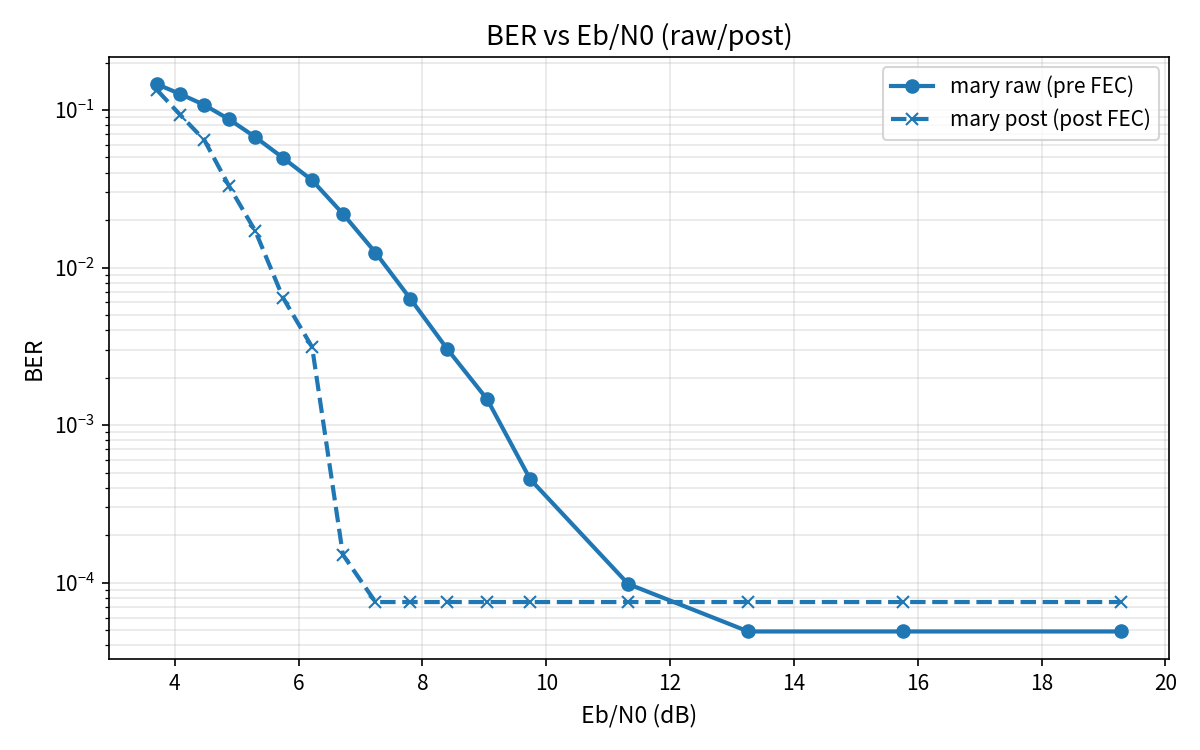
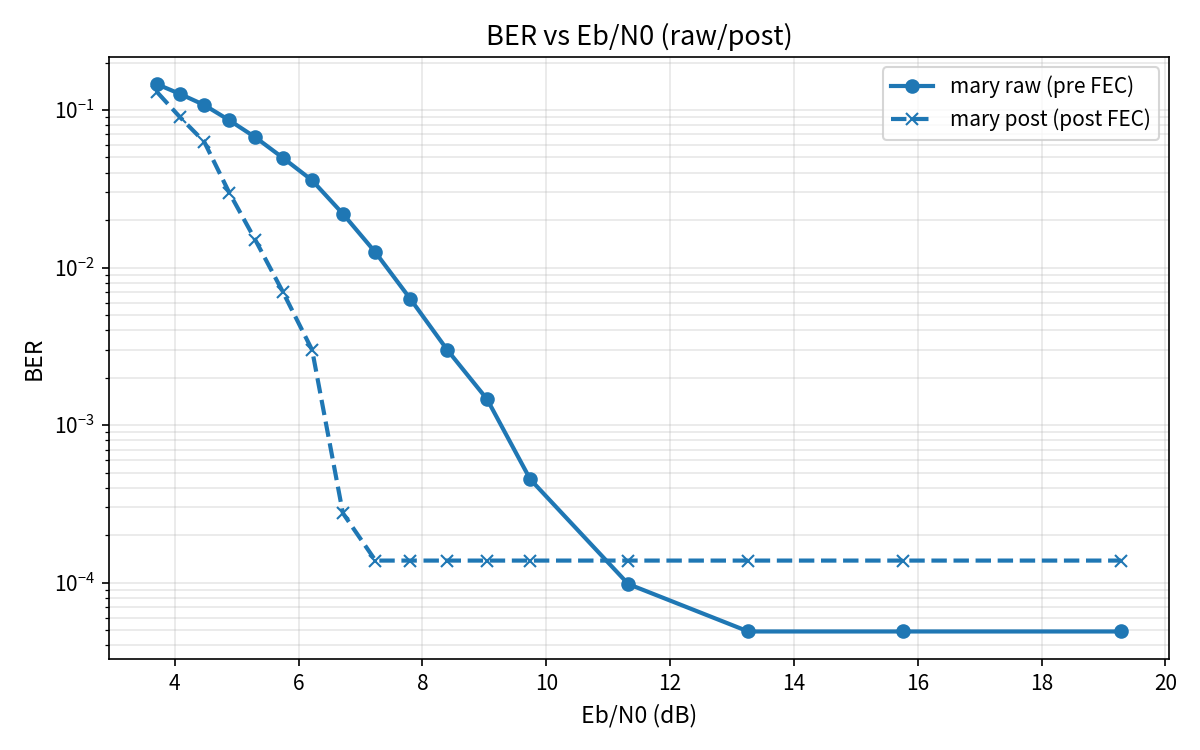
mary: refine DQPSK log-likelihood with phase-uncertainty marginalization
- replace linear DQPSK phase metric with log-I0 marginalization model

- add Cephes-based log_i0 approximation with source comments

- add approximation accuracy tests around the 3.75 split point

- include updated BER comparison plots

diff --git a/dsp/src/mary/decoder/packet_decoder.rs b/dsp/src/mary/decoder/packet_decoder.rs
@@ -162,20 +162,26 @@ fn dqpsk_phase_log_metrics(
     noise_var: f32,
     prev_phase_kappa: f32,
 ) -> [f32; 4] {
-    // 観測モデル:
-    //   y = diff / amp_ref ≈ s + n, n ~ CN(0, sigma2)
-    //   log p(y|s) = -|y-s|^2 / sigma2 + const
-    // LLR差分に効くのは Re{y * conj(s)} / sigma2 項のみ。
+    // 位相不確かさを含む観測モデル（周辺化）:
+    //   y = diff / amp_ref ≈ s * exp(jδ) + n, n ~ CN(0, sigma2), δ ~ von Mises(kappa, mean=0)
+    //   p(y|s) ∝ ∫ exp(kappa*cosδ + (2/sigma2)*Re{y*conj(s)*exp(-jδ)}) dδ
+    //          ∝ I0(|kappa + (2/sigma2) * conj(y) * s|)
+    // よって log-metric は log I0 の形になる。
     let amp_ref = amp.max(1e-6);
     let y = diff / amp_ref;
     let sigma2_obs = (noise_var / (amp_ref * amp_ref)).max(DQPSK_PHASE_OBS_VAR_FLOOR);
     let sigma2_eff = sigma2_obs + DQPSK_PHASE_MODEL_VAR;
-    let gain = prev_phase_kappa / sigma2_eff;
+    let eta = 2.0 / sigma2_eff;
+    let prior = Complex32::new(prev_phase_kappa.clamp(0.0, 1.0), 0.0);
+    let z0 = prior + y.conj() * Complex32::new(1.0, 0.0) * eta; // s0: 00
+    let z1 = prior + y.conj() * Complex32::new(0.0, 1.0) * eta; // s1: 01
+    let z2 = prior + y.conj() * Complex32::new(-1.0, 0.0) * eta; // s2: 11
+    let z3 = prior + y.conj() * Complex32::new(0.0, -1.0) * eta; // s3: 10
     [
-        gain * y.re,  // s0: phase0 -> 00
-        gain * y.im,  // s1: phase1 -> 01
-        -gain * y.re, // s2: phase2 -> 11
-        -gain * y.im, // s3: phase3 -> 10
+        log_i0_approx(z0.norm()),
+        log_i0_approx(z1.norm()),
+        log_i0_approx(z2.norm()),
+        log_i0_approx(z3.norm()),
     ]
 }
 
@@ -183,6 +189,33 @@ fn dqpsk_phase_log_metrics(
 fn dqpsk_prev_phase_kappa_from_sigma2(sigma2: f32) -> f32 {
     let sigma2_clamped = sigma2.clamp(0.0, DQPSK_PREV_PHASE_SIGMA_MAX_RAD.powi(2));
     (-0.5 * sigma2_clamped).exp().clamp(0.0, 1.0)
+}
+
+#[inline]
+fn log_i0_approx(x: f32) -> f32 {
+    // 変形ベッセル関数 I0 の近似係数は Cephes math library (i0f) 由来。
+    // 参考: S. L. Moshier, Cephes Math Library（Numerical Recipes掲載式と同系）。
+    // 区分点 3.75 も同近似の既知パラメータで、小x/大xで安定な多項式を使い分ける。
+    // ここでは I0(x) を直接計算せず log-domain に変換してオーバーフローを避ける。
+    let ax = x.abs();
+    if ax < 3.75 {
+        let y = (ax / 3.75) * (ax / 3.75);
+        let i0 = 1.0
+            + y * (3.515_623
+                + y * (3.089_942
+                    + y * (1.206_749 + y * (0.265_973 + y * (0.036_076_8 + y * 0.004_581_3)))));
+        i0.ln()
+    } else {
+        let y = 3.75 / ax;
+        let poly = 0.398_942_3
+            + y * (0.013_285_92
+                + y * (0.002_253_19
+                    + y * (-0.001_575_65
+                        + y * (0.009_162_81
+                            + y * (-0.020_577_06
+                                + y * (0.026_355_37 + y * (-0.016_476_33 + y * 0.003_923_77)))))));
+        ax + poly.ln() - 0.5 * ax.ln()
+    }
 }
 
 #[inline]
@@ -1014,6 +1047,58 @@ mod tests {
     }
 
     #[test]
+    fn test_log_i0_approx_is_finite_across_range() {
+        for &x in &[0.0_f32, 1e-3, 0.1, 1.0, 5.0, 10.0, 50.0, 500.0] {
+            let v = log_i0_approx(x);
+            assert!(v.is_finite(), "x={x}, log_i0={v}");
+        }
+    }
+
+    #[test]
+    fn test_log_i0_approx_monotonic_non_decreasing() {
+        let xs = [0.0_f32, 0.2, 0.5, 1.0, 2.0, 4.0, 8.0, 16.0];
+        let mut prev = log_i0_approx(xs[0]);
+        for &x in &xs[1..] {
+            let cur = log_i0_approx(x);
+            assert!(cur >= prev - 1e-6, "x={x}, prev={prev}, cur={cur}");
+            prev = cur;
+        }
+    }
+
+    fn log_i0_reference_series(x: f32) -> f32 {
+        // I0(x) = Σ_{k=0..∞} ((x^2/4)^k / (k!)^2)
+        // 精度テスト用の参照実装（f64）。大きいxは使わず収束が十分速い範囲で比較する。
+        let x64 = x as f64;
+        let t = 0.25 * x64 * x64;
+        let mut sum = 1.0f64;
+        let mut term = 1.0f64;
+        for k in 1..=200 {
+            let kk = k as f64;
+            term *= t / (kk * kk);
+            sum += term;
+            if term.abs() <= 1e-15 * sum.abs() {
+                break;
+            }
+        }
+        (sum.ln()) as f32
+    }
+
+    #[test]
+    fn test_log_i0_approx_matches_reference_series() {
+        // Cephes区分点(3.75)近傍を含めて近似誤差を監視する。
+        let xs = [0.0_f32, 0.1, 1.0, 2.5, 3.75, 4.0, 6.0, 10.0];
+        for &x in &xs {
+            let approx = log_i0_approx(x);
+            let reference = log_i0_reference_series(x);
+            let err = (approx - reference).abs();
+            assert!(
+                err < 2e-4,
+                "x={x}, approx={approx}, ref={reference}, err={err}"
+            );
+        }
+    }
+
+    #[test]
     fn test_apply_llr_erasure_quantile_zeroes_small_abs_values() {
         let mut llrs = vec![0.1, -0.2, 0.5, -1.0, 2.0];
         apply_llr_erasure_quantile(&mut llrs, 0.4);
@@ -1090,8 +1175,18 @@ mod tests {
             -tracking::TRACKING_PHASE_RATE_LIMIT_RAD,
             tracking::TRACKING_PHASE_RATE_LIMIT_RAD,
         );
-        assert_close(updated_small_err, expected, 1e-7, "phase_rate_hold_decay_small");
-        assert_close(updated_large_err, expected, 1e-7, "phase_rate_hold_decay_large");
+        assert_close(
+            updated_small_err,
+            expected,
+            1e-7,
+            "phase_rate_hold_decay_small",
+        );
+        assert_close(
+            updated_large_err,
+            expected,
+            1e-7,
+            "phase_rate_hold_decay_large",
+        );
     }
 
     #[test]
